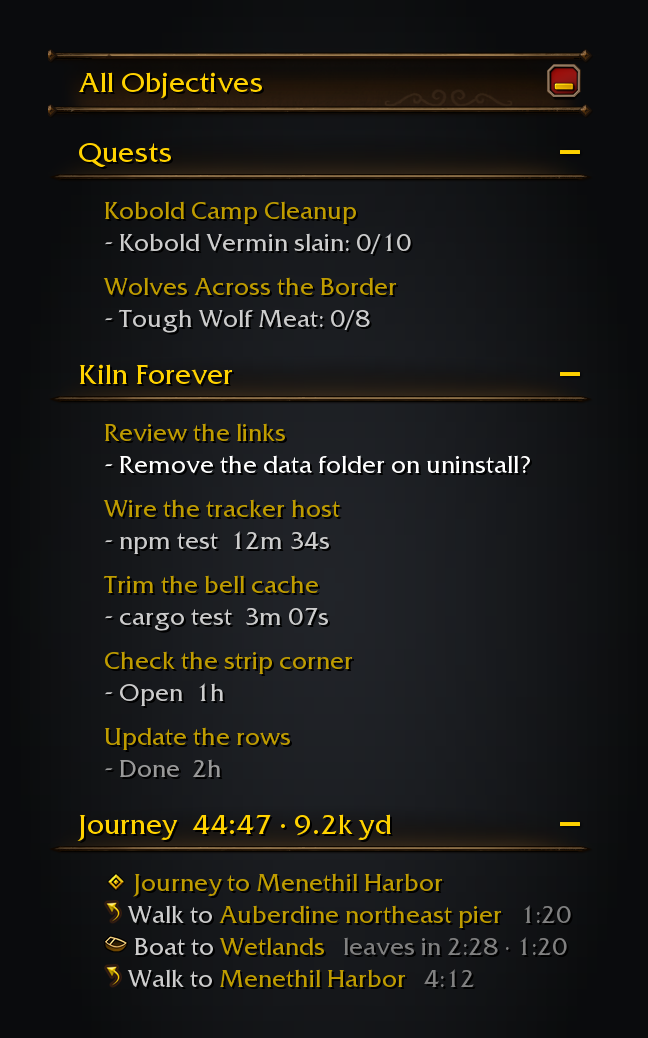
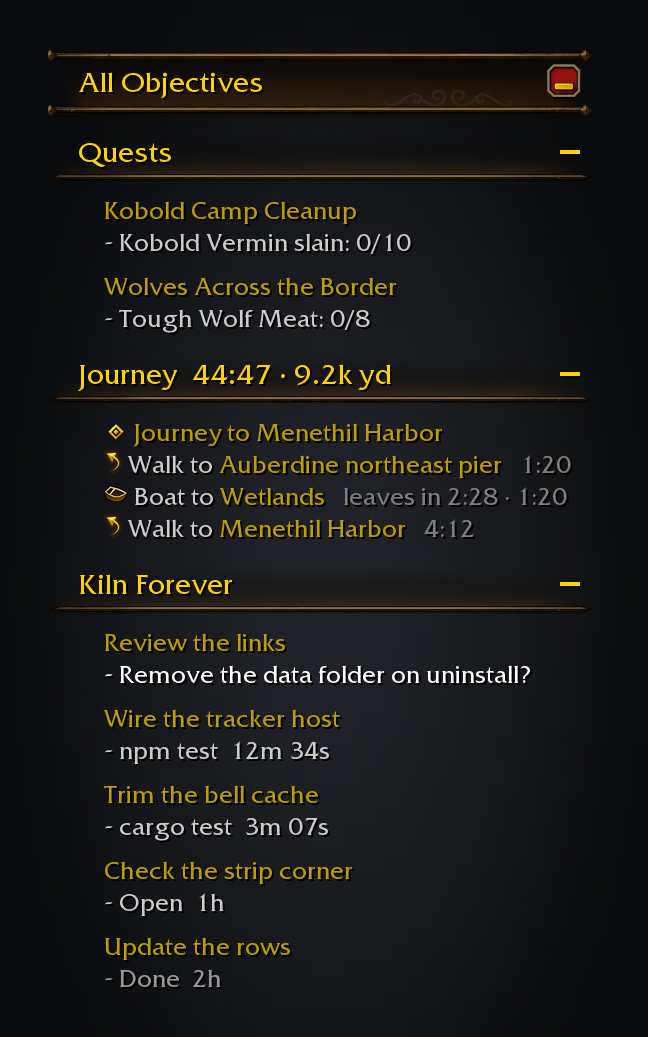
fix(tracker): rank Kiln's section after every gameplay section (#36)
Kiln's section took uiOrder -5, so the shared column gave it the room
first and a long session list hid Shortest Path's Journey and the other
gameplay sections. It now sorts at 20, after Field Guide's 10.

Closes #32

Claude-Session: https://claude.ai/code/session_01BVTqQ19XMfY3yZW8f6oykv

diff --git a/tools/screenshots.py b/tools/screenshots.py
@@ -7,8 +7,8 @@ Three scenes, all laid out from the addon's sources and drawn with forever-core'
 
 - window.png: the main window (UI/MainFrame.lua, ThreadList.lua, Transcript.lua and Widgets.lua) on
   ButtonFrameTemplate, with a selected Open session and a queued message waiting.
-- tracker.png: the shared Forever tracker column: the game's Quests section, then the Kiln Forever
-  module (uiOrder -5), then a Shortest Path Forever Journey module (uiOrder -3), in section order.
+- tracker.png: the shared Forever tracker column: the game's Quests section, then a Shortest Path Forever
+  Journey module (uiOrder -3), then the Kiln Forever module (uiOrder 20), in section order.
 - toast.png: the "Needs you" notice from UI/Toasts.lua, on the client's own scenario toast
   (ScenarioAlertFrameTemplate: Toast-Frame, Toast-IconBG and Toast-Flash) as AlertFrame shows it.
 
@@ -577,9 +577,9 @@ def tracker_canvas(ui):
             )
         ],
     )
-    # The host sorts by uiOrder and stacks with a 10-unit gap; -5 is above -3, below the quests.
-    canvas, _ = objective_tracker(ui, [quests, kiln, journey], container=True)
-    assert [m.header for m in (quests, kiln, journey)] == ["Quests", "Kiln Forever", "Journey  44:47 · 9.2k yd"]
+    # The host sorts by uiOrder and stacks with a 10-unit gap; the Journey (-3) stays above Kiln's last place (20).
+    canvas, _ = objective_tracker(ui, [quests, journey, kiln], container=True)
+    assert [m.header for m in (quests, journey, kiln)] == ["Quests", "Journey  44:47 · 9.2k yd", "Kiln Forever"]
     return canvas
 
 

diff --git a/docs/ARCHITECTURE.md b/docs/ARCHITECTURE.md
@@ -37,7 +37,7 @@ The addon's `tests/` folder is for development only. `syncAddon` in `bridge/src/
 
 Kiln Forever requires [Forever Core](https://github.com/cjber/forever-core) with `## Dependencies: ForeverCore`, so exactly one copy of each shared file loads in the game. Forever Core owns the tracker column, section order, the Questie and EQOT readers, the settings page, the minimap button, the error journal, the debug log and the report window; Kiln Forever carries no copy of them.
 
-`Core/Init.lua` registers the addon once with `ForeverCore.Register(addonName, { title = ns.ReportTitle, lines = ... })`, which gives Kiln Forever its own journal, log and report window. `ns.core.Attach(ns.db)` runs when the saved variables load and keeps the journal under `errors` and the log under `log`, where earlier sessions left them. `UI/Tracker.lua` builds the section and hands it to `ForeverCore.TrackerHost.Attach` with `uiOrder = -5`, after Legacy Forever (0, -1), SkillUp Forever (-2), Shortest Path Forever (-3) and Adventure Guide Forever (-4). The old `trackerHost` table is offered once as the section's `legacySettings`, then dropped from Kiln's saved table. The settings page, minimap button and settings opener are called as `ForeverCore.SettingsPage`, `ForeverCore.MinimapButton` and `ForeverCore.OpenSettingsPanel`, with Kiln's `ns.L` and `ns.core.SafeCall`.
+`Core/Init.lua` registers the addon once with `ForeverCore.Register(addonName, { title = ns.ReportTitle, lines = ... })`, which gives Kiln Forever its own journal, log and report window. `ns.core.Attach(ns.db)` runs when the saved variables load and keeps the journal under `errors` and the log under `log`, where earlier sessions left them. `UI/Tracker.lua` builds the section and hands it to `ForeverCore.TrackerHost.Attach` with `uiOrder = 20`, after the gameplay sections: ForeverCore's quest list (-10), Legacy Forever (-5 and 0), Adventure Guide Forever (-4), Shortest Path Forever (-3) and Field Guide Forever (10). SkillUp Forever's profession section has no `uiOrder`, so the shared host follows the numbered sections with it. The old `trackerHost` table is offered once as the section's `legacySettings`, then dropped from Kiln's saved table. The settings page, minimap button and settings opener are called as `ForeverCore.SettingsPage`, `ForeverCore.MinimapButton` and `ForeverCore.OpenSettingsPanel`, with Kiln's `ns.L` and `ns.core.SafeCall`.
 
 `Core/Require.lua` runs before the addon's other files: when Forever Core is missing or older than API 1 it puts one line in `UIErrorsFrame` and stops them. The TOC's `## Dependencies: ForeverCore` already keeps the game from loading the addon without it.
 
